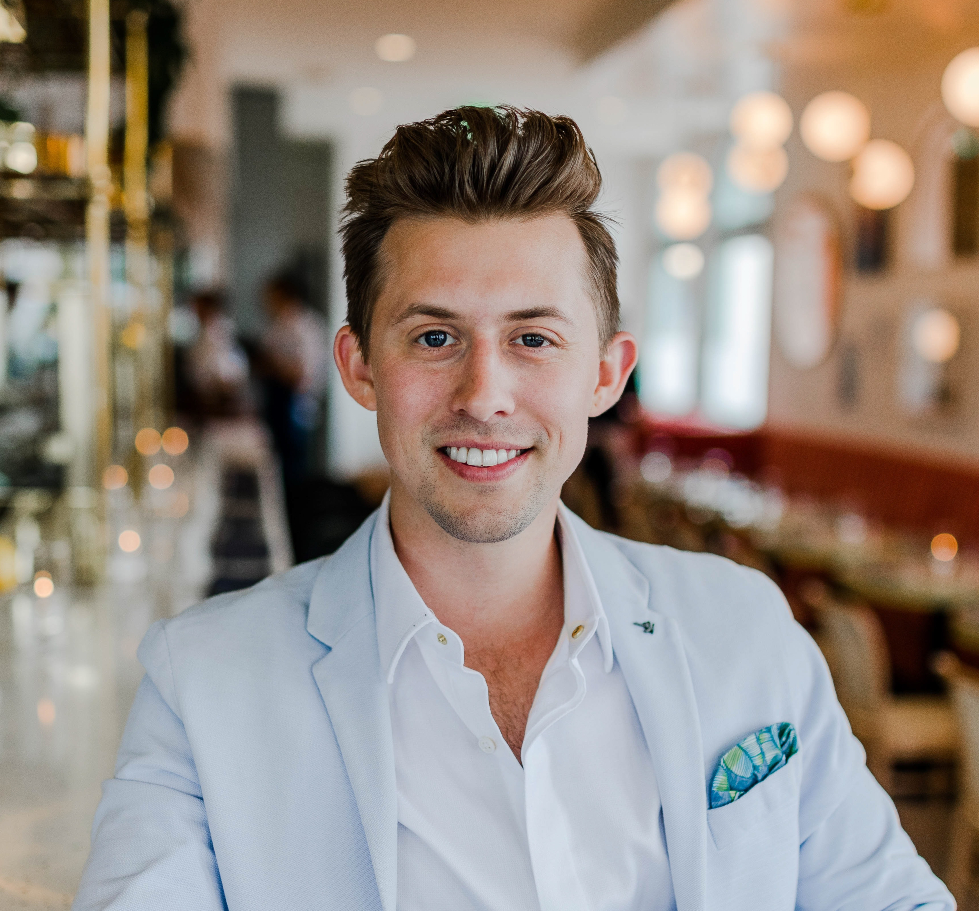
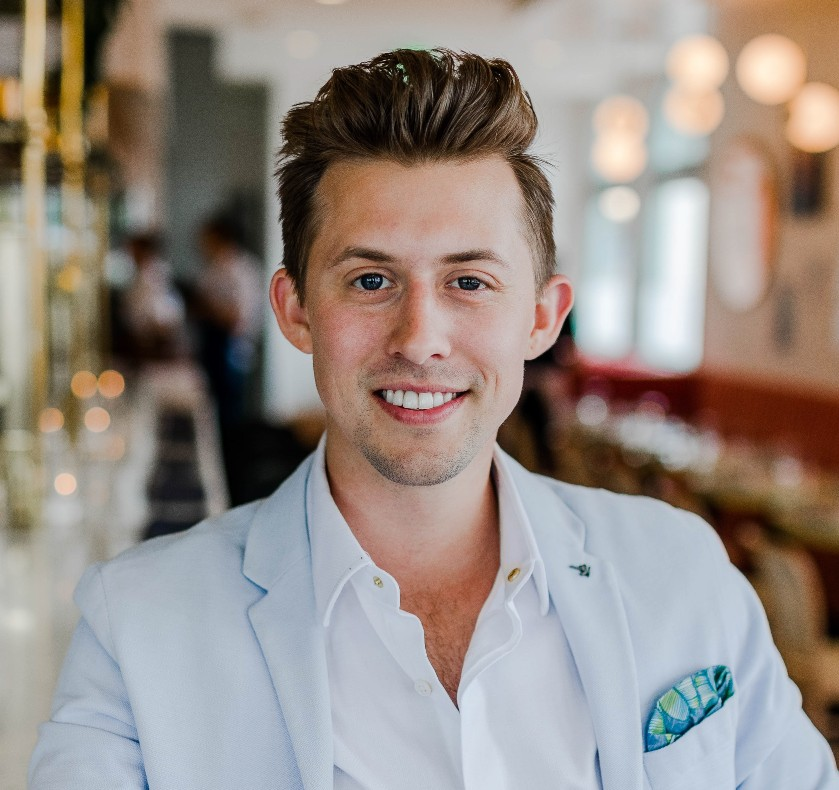
Add info section

diff --git a/src/styles/sidebar.css b/src/styles/sidebar.css
@@ -1,48 +1,32 @@
-* {
-  box-sizing: border-box;
-  --light-color: #f7f4f1;
-  --medium-color: #eee8e4;
-  --dark-color: #e6ddd6;
-  --darker-color: #ddd2c9;
-  --font-color: #72675f;
-  --dark-font-color: #615a54;
-}
-
 .sidebar {
   background-color: #ddd2c970;
   height: 100%;
   width: 220px;
-  color: var(--dark-font-color);
   padding: 35px;
-  border-right: solid 1px var(--darker-color);
+  border-right: solid 2px var(--darker-color);
 }
+
 /* Profile picture */
 .picture {
   position: relative;
 }
-.sidebar img {
-  height: 255px;
-  width: 260px;
+.sidebar img,
+.picture input {
+  height: 235px;
+  width: 240px;
   border-radius: 50%;
-  border: solid 1px var(--darker-color);
-}
-.img-overlay {
+  border: solid 2px var(--darker-color);
 }
 .picture input {
-  height: 255px;
-  width: 260px;
-  color: rgba(255, 0, 0, 0);
   content-visibility: hidden;
-  border-radius: 50%;
   position: absolute;
   top: 0;
-}
-.picture input {
 }
 .opaque {
   background-color: rgba(255, 255, 255, 0.418);
   cursor: pointer;
 }
+
 /* Contact details */
 .contact {
   display: flex;
@@ -51,23 +35,21 @@
   margin: 25px 0 35px 0;
 }
 .contact--field {
-  border-bottom: 1px var(--font-color) solid;
+  border-bottom: 1px var(--title-light) solid;
+  overflow: hidden;
 }
 .contact--field:last-child {
   border-bottom: none;
 }
 .contact--field h4 {
-  font-family: 'Karla';
   margin-bottom: -7px;
   margin-top: 8px;
 }
 .contact--field p {
-  font-family: 'Inter';
-  font-size: 13px;
   margin-bottom: 8px;
 }
-/* Skills */
 
+/* Skills */
 .skills {
   display: flex;
   flex-direction: column;
@@ -75,12 +57,10 @@
 }
 .skills h3 {
   padding: 6px 0 6px 0;
-  border-bottom: 1px var(--font-color) solid;
-  border-top: 1px var(--font-color) solid;
+  border-bottom: 1px var(--title-light) solid;
+  border-top: 1px var(--title-light) solid;
 }
 .skills p {
   overflow: hidden;
-  font-family: 'Inter';
   margin-bottom: -6px;
-  font-size: 13px;
 }

diff --git a/src/App.jsx b/src/App.jsx
@@ -11,8 +11,8 @@ class App extends Component {
     contact: {
       address: '430 Blackwell Street, Anchorage, AK, 99518',
       phone: '907-980-4070',
-      email: 'tony@fishmore.com',
-      website: 'tony.fishmore.com',
+      email: 'tony@moore.com',
+      website: 'tony.moore.com',
     },
     skills: [
       'Communication',
@@ -24,6 +24,13 @@ class App extends Component {
       'Willingness to learn',
       'Autonomous',
     ],
+    info: {
+      name: 'Tony',
+      surname: 'Moore',
+      title: 'Web Developer',
+      about:
+        'Result-oriented and dedicated junior web developer with 1 year of experience, always driven to provide the ultimate user experience using the latest tools to write concise, clean, maintainable code. In my spare time I enjoy reading books, taking long walks in the parks or through the woods, and just being out in the nature away from the city noise.',
+    },
   };
 
   update = {
@@ -48,23 +55,21 @@ class App extends Component {
   };
 
   render() {
-    const { contact, skills, picture } = this.state;
+    const { contact, skills, picture, info } = this.state;
 
     return (
       <div className="app">
-        <Form data={this.state} update={this.update} />
+        <div className="background-overlay"></div>
 
-        <div className="pdf">
-          <div className="resume">
-            <Sidebar
-              contact={contact}
-              skills={skills}
-              picture={picture}
-              update={this.update.picture}
-            />
-            <Main />
-          </div>
-          <div className="background-overlay"></div>
+        <Form data={this.state} update={this.update} />
+        <div className="resume">
+          <Sidebar
+            contact={contact}
+            skills={skills}
+            picture={picture}
+            update={this.update.picture}
+          />
+          <Main info={info} />
         </div>
       </div>
     );

diff --git a/src/styles/app.css b/src/styles/app.css
@@ -4,7 +4,11 @@
   --medium-color: #eee8e4;
   --dark-color: #e6ddd6;
   --darker-color: #ddd2c9;
-  --font-color: #615a54;
+  --dark-font-color: #615a54;
+  --title-dark: #9c8066;
+  --font-light: #70635a;
+  --font-dark: #413c39;
+  --title-light: #b8a391;
 }
 
 body {
@@ -14,43 +18,49 @@ body {
 
 /* App and background-overlay */
 .app {
+  position: relative;
   display: flex;
   flex-direction: row;
   justify-content: space-around;
+  background-image: url(../assets/background.jpg);
+  background-size: cover;
+  min-height: 100vh;
+}
+.background-overlay {
+  min-height: 100%;
+  min-width: 100%;
+  position: absolute;
+  left: 0;
+  top: 0;
+  background-color: #e6ddd669;
+  z-index: 1;
 }
 
 /* FORM */
 form {
   min-height: 100vh;
   width: 500px;
-  background-color: var(--dark-color);
+  position: relative;
+  z-index: 10;
 }
 
-/* PDF */
-.pdf {
-  position: relative;
-  min-height: 100vh;
-  width: 800px;
-  background-image: url(../assets/background.jpg);
-  background-size: cover;
-  padding: 30px 20px 0 20px;
-}
-.background-overlay {
-  min-height: 100%;
-  width: 800px;
-  position: absolute;
-  left: 0;
-  top: 0;
-  background-color: #e6ddd691;
-  z-index: 1;
-}
 .resume {
+  margin: 30px 30px 0 30px;
   background-color: #f7f4f1ee;
-  height: 100%;
-  z-index: 100;
-  position: relative;
+  z-index: 10;
   display: flex;
   flex-direction: row;
   border-radius: 10px 10px 0 0;
   border: solid 1px var(--darker-color);
+}
+
+/* Font and color for section title and section info */
+.title {
+  font-family: 'Karla';
+  color: var(--title-light);
+}
+.info {
+  font-family: 'Inter';
+  color: var(--font-light);
+  font-size: 13px;
 }

diff --git a/src/components/Sidebar.jsx b/src/components/Sidebar.jsx
@@ -22,8 +22,8 @@ class Sidebar extends Component {
     for (const field in details) {
       arr.push(
         <div className="contact--field" key={uniqid()}>
-          <h4>{field.toUpperCase()}</h4>
-          <p>{details[field]}</p>
+          <h4 className="title">{field.toUpperCase()}</h4>
+          <p className="info">{details[field]}</p>
         </div>
       );
     }
@@ -33,9 +33,11 @@ class Sidebar extends Component {
   renderSkills = () => {
     return (
       <div className="skills">
-        <h3>Skills</h3>
+        <h3 className="title">Skills</h3>
         {this.props.skills.map((skill) => (
-          <p key={uniqid()}>{skill}</p>
+          <p className="info" key={uniqid()}>
+            {skill}
+          </p>
         ))}
       </div>
     );
@@ -48,7 +50,7 @@ class Sidebar extends Component {
           <img src={this.props.picture} alt="profile" />
           <input
             type="file"
-            className={`img-overlay ${this.state.changePicture && 'opaque'}`}
+            className={`${this.state.changePicture && 'opaque'}`}
             onChange={(e) => this.props.update(e)}
             onMouseEnter={this.hover}
             onMouseLeave={this.hover}

diff --git a/src/styles/main.css b/src/styles/main.css
@@ -1,3 +1,57 @@
+* {
+  box-sizing: border-box;
+  --light-color: #f7f4f1;
+  --medium-color: #eee8e4;
+  --dark-color: #e6ddd6;
+  --darker-color: #ddd2c9;
+  --dark-font-color: #615a54;
+  --title-dark: #9c8066;
+  --font-light: #70635a;
+  --font-dark: #413c39;
+  --title-light: #b8a391;
+}
+
 .main {
-  color: #615a54;
+  width: 580px;
+  padding: 35px;
+}
+/* Info Section */
+.main--info {
+  margin-left: 50px;
+  font-family: 'Karla';
+}
+.main--info-name {
+  display: flex;
+  gap: 16px;
+  letter-spacing: -2px;
+  color: var(--title-light);
+}
+.main--info-name h1 {
+  margin-bottom: 10px;
+  margin-top: 20px;
+  font-size: 50px;
+  font-family: 'Times New Roman';
+  letter-spacing: 1.6px;
+  font-weight: 900;
+}
+.main--info-name h1:last-child {
+  font-weight: lighter;
+}
+.main--info h3 {
+  margin-top: -5px;
+  color: var(--title-dark);
+  letter-spacing: 5px;
+  margin-bottom: 34px;
+  border-bottom: 1px solid var(--title-light);
+}
+.main--info h4 {
+  color: var(--title-light);
+  margin-bottom: -5px;
+}
+.main--info p {
+  color: var(--font-light);
+  font-family: 'Garamond';
+  font-size: 15px;
+  text-align: justify;
+  line-height: 18px;
 }

diff --git a/src/components/Main.jsx b/src/components/Main.jsx
@@ -1,10 +1,30 @@
 import React, { Component } from 'react';
+import uniqid from 'uniqid';
 import '../styles/main.css';
 
 class Main extends Component {
+  constructor(props) {
+    super(props);
+  }
   state = {};
+
+  renderinfo = (info) => {
+    return (
+      <div className="main--info">
+        <div className="main--info-name">
+          <h1>{info.name}</h1>
+          <h1>{info.surname}</h1>
+        </div>
+        <h3>{info.title.toUpperCase()}</h3>
+        <h4>Summary</h4>
+        <p>{info.about}</p>
+      </div>
+    );
+  };
+
   render() {
-    return <div className="main"></div>;
+    const { info } = this.props;
+    return <div className="main">{this.renderinfo(info)}</div>;
   }
 }
 
